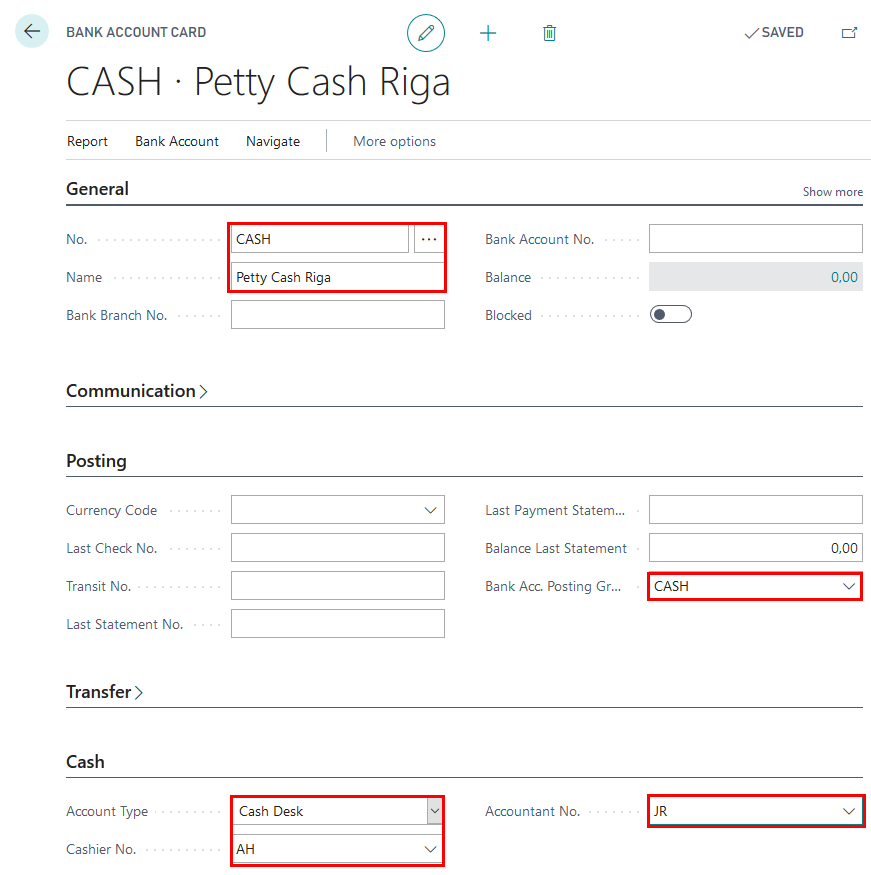
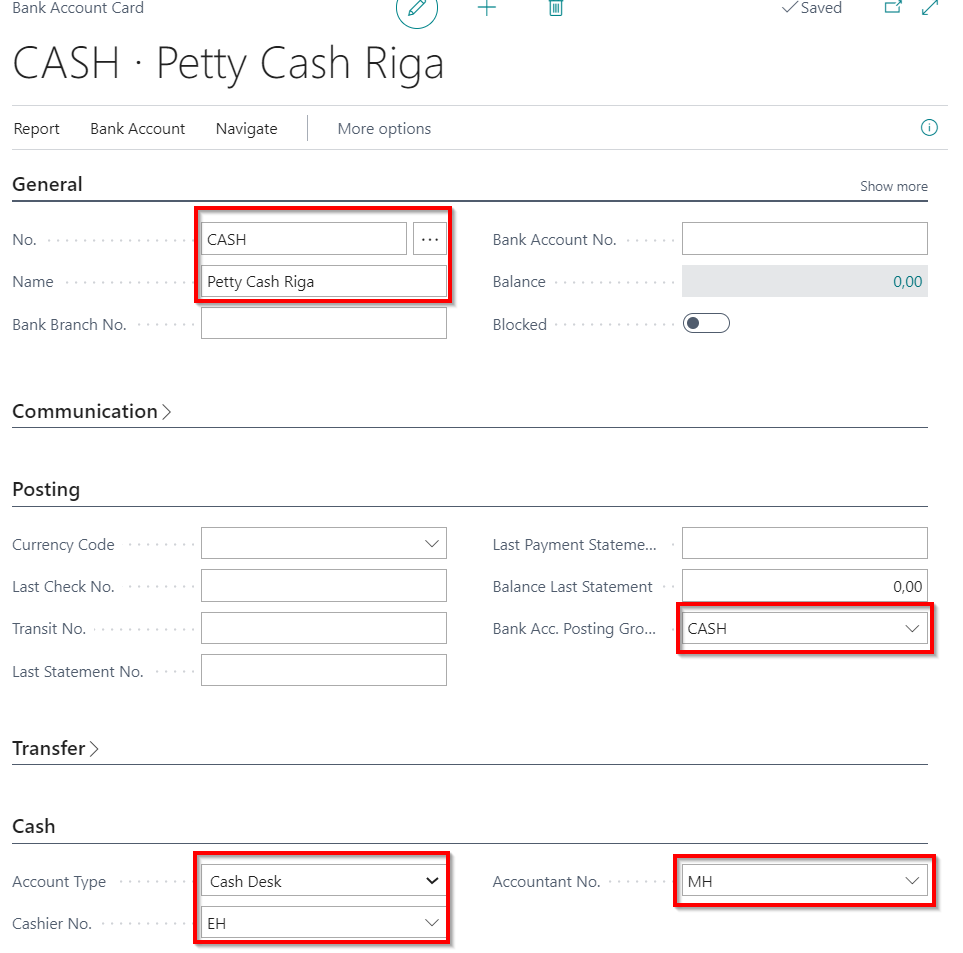
Automated Release en-us

diff --git a/en-US/articles/cash_management/usage_scenarios.html b/en-US/articles/cash_management/usage_scenarios.html
@@ -79,27 +79,6 @@
             <article class="content wrap" id="_content" data-uid="">
 <h1 id="key-usage-scenarios">Key Usage Scenarios</h1>
 
-<h2 id="walkthrough-create-evaluation-company">Walkthrough: Create evaluation company</h2>
-<p><strong>About this walkthrough</strong>: An evaluation company is to be created, in order to try Latvian Cash Management Localization.</p>
-<p><strong>Roles</strong>: No specific user roles are required.</p>
-<p><strong>Story</strong>: You are John Roberts managing director of Cronus International. The company runs business in the sphere of sales of furniture and rendering consultation services related to interior design upon request of local customers.
-Cronus International is required to carry out transactions with petty cash according to Latvia local requirements. You are assigned to test the settings on an evaluation company before adding the settings into your company.</p>
-<p><strong>Availability:</strong> can be accessed from Search for Page or Report…</p>
-<p><strong>Pre-requisites:</strong> No pre-requisites required</p>
-<h3 id="create-evaluation-company">Create Evaluation Company</h3>
-<ol>
-<li>Click on the button Search for Page or Report...
-<img src="images/cash_search.png" alt="alt"></li>
-<li>Type Companies and select Companies from Lists
-<img src="images/cash_eval001.png" alt="alt"></li>
-<li>Press New,  select Create New Company, press Next
-<img src="images/cash_eval002.png" alt="alt"></li>
-<li>Enter company name, for example, CASH-EVALUATION; set Evaluation-Sample Data in field Select the Data and Setup to Get Started
-<img src="images/cash_eval003.png" alt="alt"></li>
-<li>Press Next, Next, Finish</li>
-<li>In My Settings, select your evaluation company
-<img src="images/cash_eval004.png" alt="alt"></li>
-</ol>
 <h2 id="walkthrough-how-to-set-up-cash-book-journal-batches">Walkthrough: How to set up Cash Book Journal batches</h2>
 <p><strong>About this walkthrough</strong>: Cash Income Orders and Cash Payment Orders require to have separate Cash Book Journal batches.</p>
 <p><strong>Roles</strong>: No specific user roles are required.</p>
@@ -119,7 +98,7 @@ The following information should be completed:</p>
 <img src="images/cash_search.png" alt="alt"></li>
 <li>Type Employee and select Employees from Pages and Tasks
 <img src="images/cash_emp001.png" alt="alt"></li>
-<li>Open John Roberts employee card who is responsible for petty cash transactions, in order to review that name, surname, title fields are completed
+<li>Open Marty Horst employee card who is responsible for petty cash transactions, in order to review that name, surname, title fields are completed
 <img src="images/cash_use_empl001.png" alt="alt"></li>
 </ol>
 <h3 id="review-company-information">Review Company Information</h3>
@@ -127,15 +106,15 @@ The following information should be completed:</p>
 <li><p>Click on the button Search for Page or Report...
 <img src="images/cash_search.png" alt="alt"></p>
 </li>
-<li><p>Type Company Information and select Company Information from Pages and Tasks
+<li><p>Type <em>Company Information</em> and select Company Information from Pages and Tasks
 <img src="images/cash_comp001.png" alt="alt"></p>
 </li>
 <li><p>Review Company Information is completed:</p>
 <ul>
 <li>Name</li>
-<li>Address -</li>
+<li>Address</li>
 <li>Post Code</li>
-<li>Country</li>
+<li>Country/Region Code</li>
 <li>Registration No. - copy the VAT registration number and set it as Registration No.</li>
 <li>VAT Registration No.</li>
 </ul>
@@ -146,27 +125,29 @@ The following information should be completed:</p>
 <ol>
 <li>Click on the button Search for Page or Report...
 <img src="images/cash_search.png" alt="alt"></li>
-<li>Enter Bank Account Posting Groups and then choose the related link.
+<li>Enter <em>Bank Account Posting Groups</em> and then choose the related link.
 <img src="images/cash_bank001.png" alt="alt"></li>
 <li>Bank account posting group CASH is to be used for petty cash and it has an assigned G/L Account.
 <img src="images/cash_use_bpg001.png" alt="alt"></li>
 </ol>
 <h3 id="create-new-bank-account-card-for-petty-cash-and-register-cash-income-order-and-cash-payment-order-print-cash-book">Create New Bank Account Card for Petty Cash and register Cash Income Order and Cash Payment Order, Print Cash Book</h3>
 <ul>
-<li>Click on the button Search for Page or Report...
-<img src="images/cash_search.png" alt="alt"></li>
-<li>Type Bank Accounts and select Bank Accounts from Pages and Tasks
-<img src="images/cash_bank004.png" alt="alt"></li>
-<li>Press New, in order to create New Bank Account card per Petty Cash location
-<img src="images/cash_bank005.png" alt="alt"></li>
-<li>Complete Bank Account Card information with
+<li><p>Click on the button Search for Page or Report...
+<img src="images/cash_search.png" alt="alt"></p>
+</li>
+<li><p>Type Bank Accounts and select Bank Accounts from Pages and Tasks
+<img src="images/cash_bank004.png" alt="alt"></p>
+</li>
+<li><p>Press New, in order to create New Bank Account card per Petty Cash location</p>
+</li>
+<li><p>Complete Bank Account Card information with</p>
 <ul>
 <li>No. - CASH</li>
 <li>Name - Petty Cash Riga</li>
 <li>Bank Account Posting Group - CASH</li>
 <li>Account Type- select <em>Cash Desk</em></li>
-<li>Cashier No.- select AH</li>
-<li>Accountant No. - select JR
+<li>Cashier No.- select EH</li>
+<li>Accountant No. - select MH
 <img src="images/cash_use_bank001.png" alt="alt"></li>
 </ul>
 </li>
@@ -215,7 +196,7 @@ The following information should be completed:</p>
 <li><p>Click on the button Search for Page or Report...
 <img src="images/cash_search.png" alt="alt"></p>
 </li>
-<li><p>Type Cash Book Journals and select Cash Book Journals from Tasks
+<li><p>Type <em>Cash Book Journals</em> and select Cash Book Journals from Tasks
 <img src="images/cash_journal001.png" alt="alt"></p>
 </li>
 <li><p>Open Cash Book Journal batches
@@ -257,7 +238,7 @@ The following information should be completed:</p>
 </li>
 <li><p>Create Cash Income Order by completing the following fields:</p>
 <ul>
-<li>Posting Date - 06.04.2020</li>
+<li>Posting Date - 06.04.2021</li>
 <li>Document Type - Payment</li>
 <li>Account Type - Customer</li>
 <li>Account No. - 20000</li>
@@ -271,7 +252,7 @@ The following information should be completed:</p>
 <img src="images/cash_use_income002.png" alt="alt"></li>
 </ul>
 </li>
-<li><p>Press Print Cash Income Order in the Ribbon
+<li><p>Press <em>Print Cash Income Order</em> in the Ribbon
 <img src="images/cash_use_income003.png" alt="alt"></p>
 </li>
 <li><p>Complete printing options</p>
@@ -282,8 +263,10 @@ The following information should be completed:</p>
 </ul>
 </li>
 </ol>
-<p><img src="images/cash_use_income004.png" alt="alt">
-7. Review Cash Income Order Printout</p>
+<p><img src="images/cash_use_income004.png" alt="alt"></p>
+<ol start="7">
+<li>Review Cash Income Order Printout</li>
+</ol>
 <p><img src="images/cash_use_income005.png" alt="alt"></p>
 <ol start="8">
 <li>Press Post, in order to register cash income order
@@ -300,7 +283,7 @@ The following information should be completed:</p>
 <img src="images/cash_use_payment001.png" alt="alt"></li>
 <li>Create Cash Payment Order by completing the following fields:
 <ul>
-<li>Posting Date - 06.04.2020</li>
+<li>Posting Date - 06.04.2021</li>
 <li>Document Type - Payment</li>
 <li>Account Type - Vendor</li>
 <li>Account No. - 30000</li>
@@ -333,18 +316,22 @@ The following information should be completed:</p>
 <img src="images/cash_use_payment006.png" alt="alt"></p>
 <h3 id="print-cash-book-report">Print Cash Book report</h3>
 <ol>
-<li>Click on the button Search for Page or Report...
-<img src="images/cash_search.png" alt="alt"></li>
-<li>Type Cash Book and select Cash Book from Reports and Analysis
-<img src="images/cash_book001.png" alt="alt"></li>
-<li>Set the following printout option
+<li><p>Click on the button Search for Page or Report...
+<img src="images/cash_search.png" alt="alt"></p>
+</li>
+<li><p>Type <em>Cash Book</em> and select Cash Book from Reports and Analysis
+<img src="images/cash_book001.png" alt="alt"></p>
+</li>
+<li><p>Set the following printout option</p>
 <ul>
-<li>Report No. - &quot;06.04.2020&quot;</li>
+<li>Report No. - &quot;06.04.2021&quot;</li>
 <li>Bank No. - &quot;CASH&quot;</li>
-<li>Date filter - &quot;06.04.2020&quot;
-<img src="images/cash_use_book001.png" alt="alt">
-<img src="images/cash_use_book002.png" alt="alt"></li>
+<li>Date filter - &quot;06.04.2021&quot;
+<img src="images/cash_use_book001.png" alt="alt"></li>
 </ul>
+</li>
+<li><p>Review Cash Book Printout
+<img src="images/cash_use_book002.png" alt="alt"></p>
 </li>
 </ol>
 </article>
